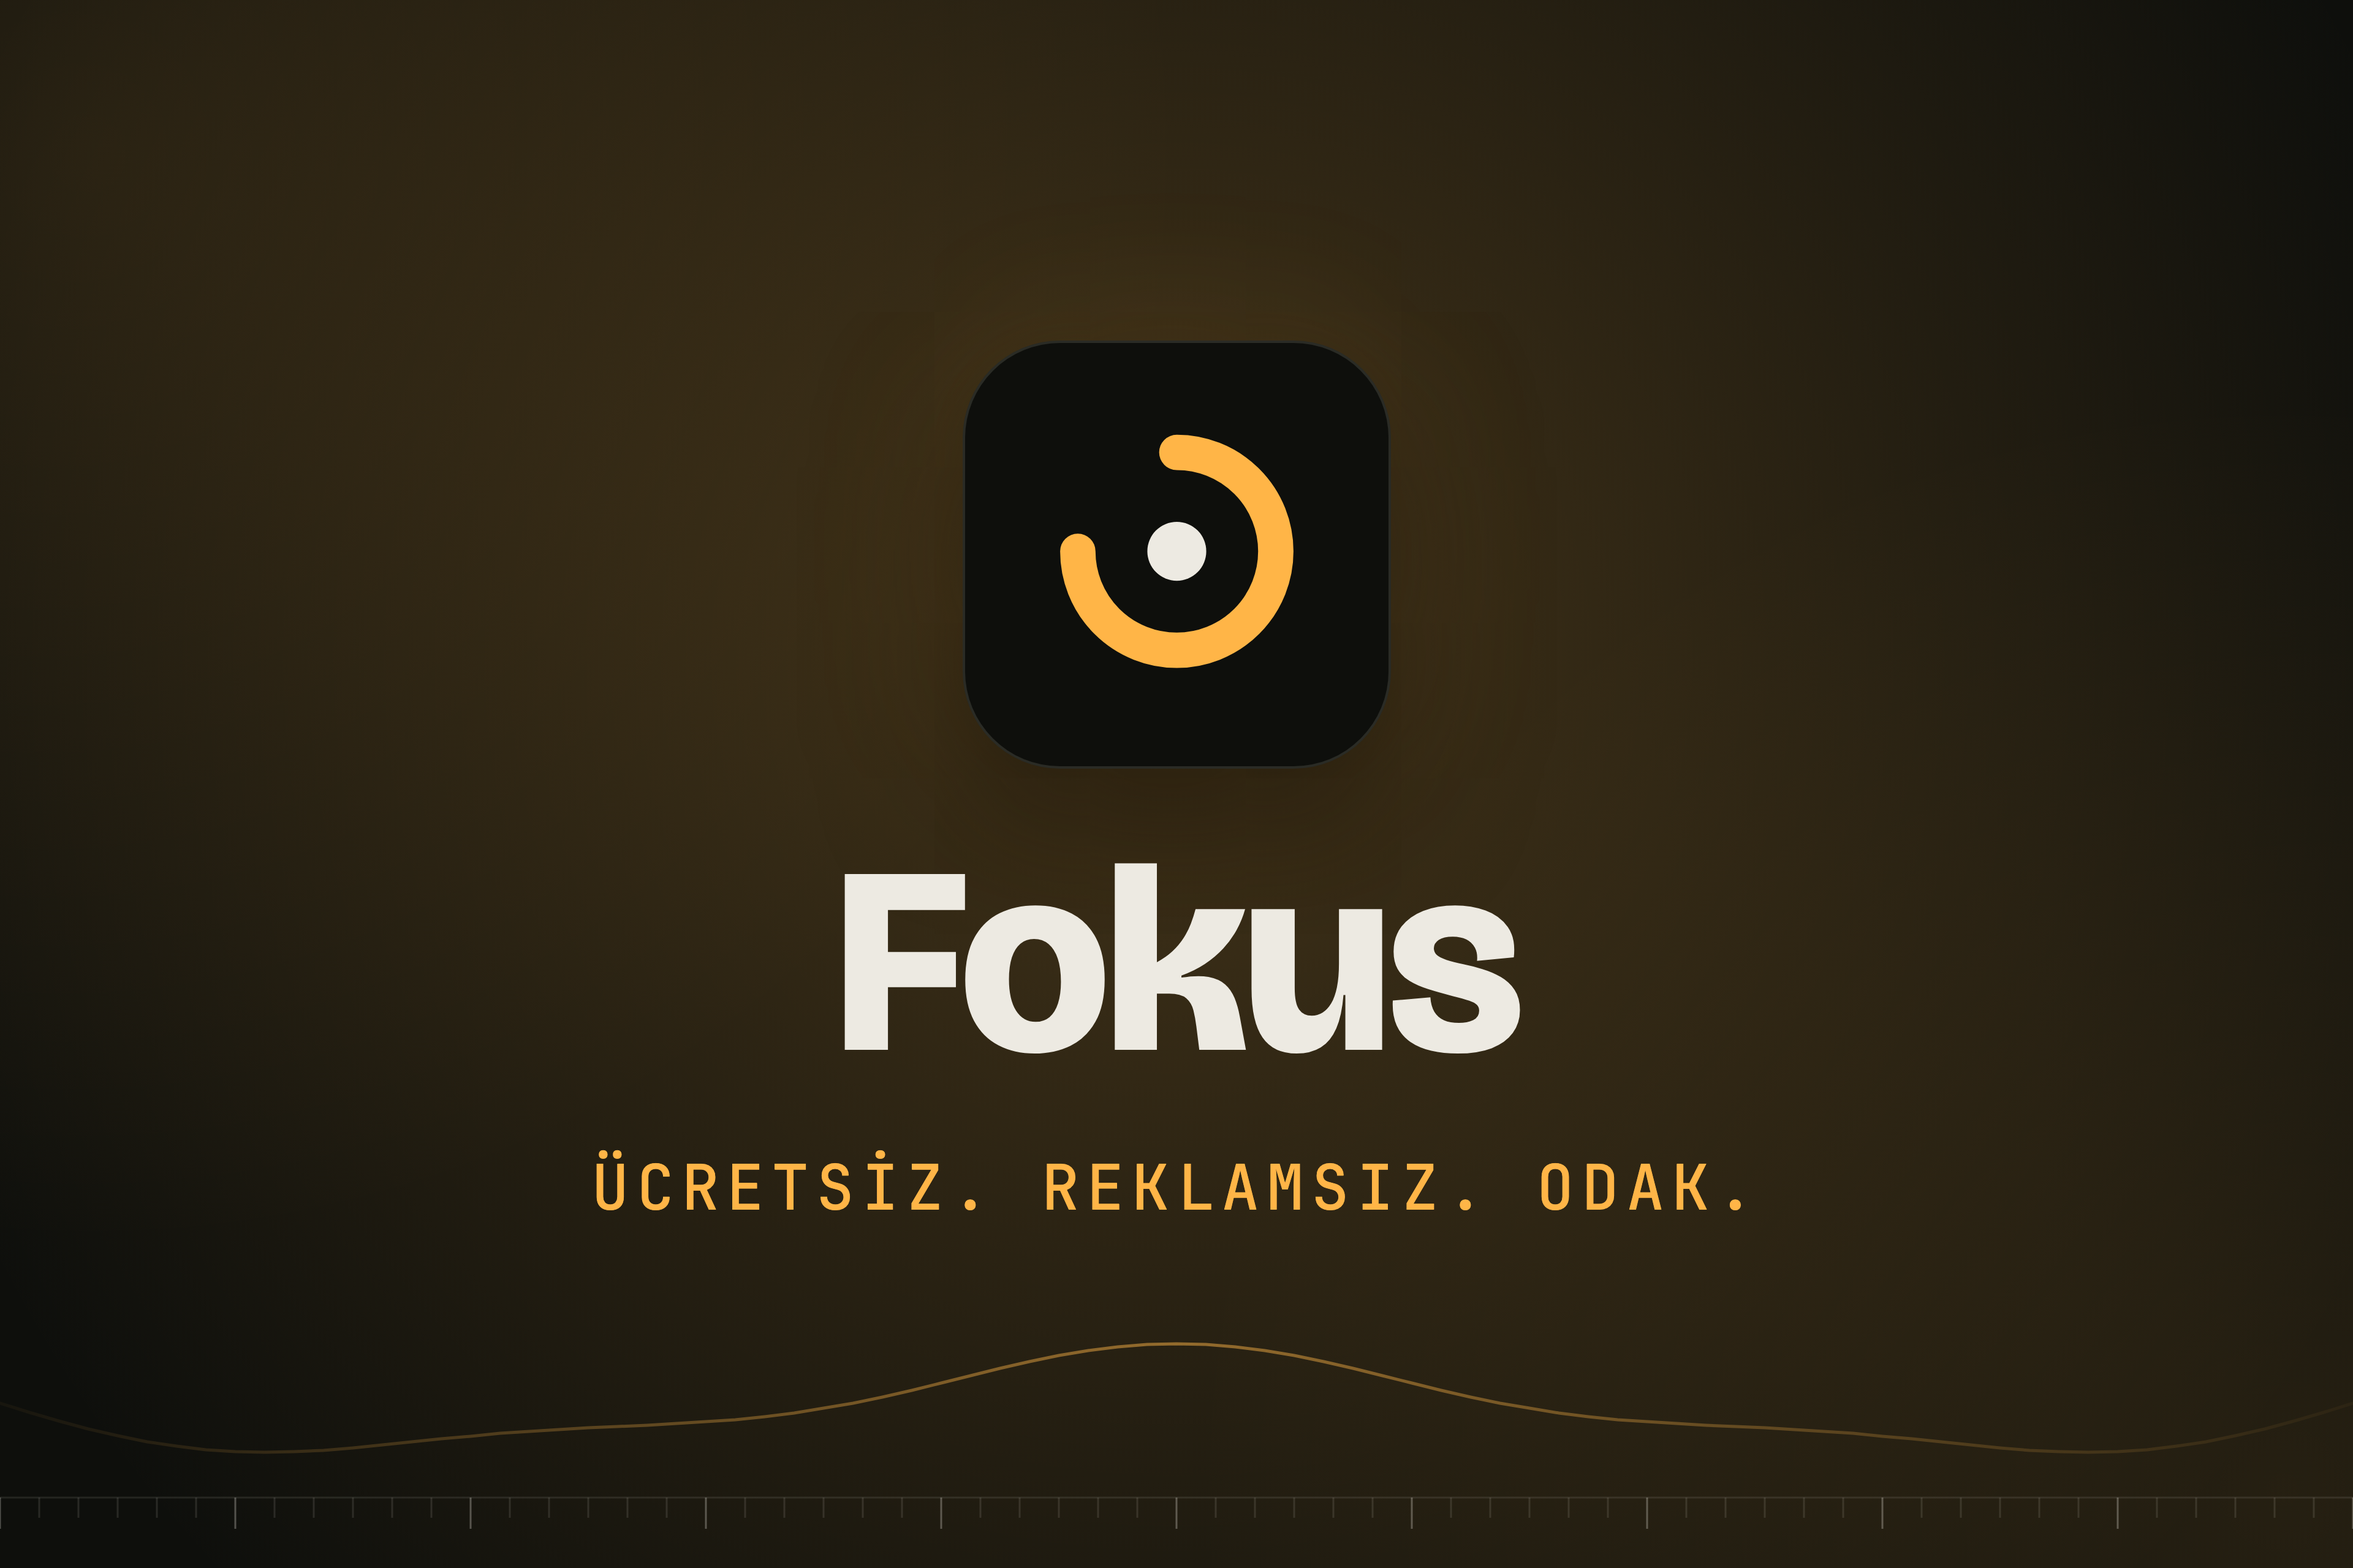
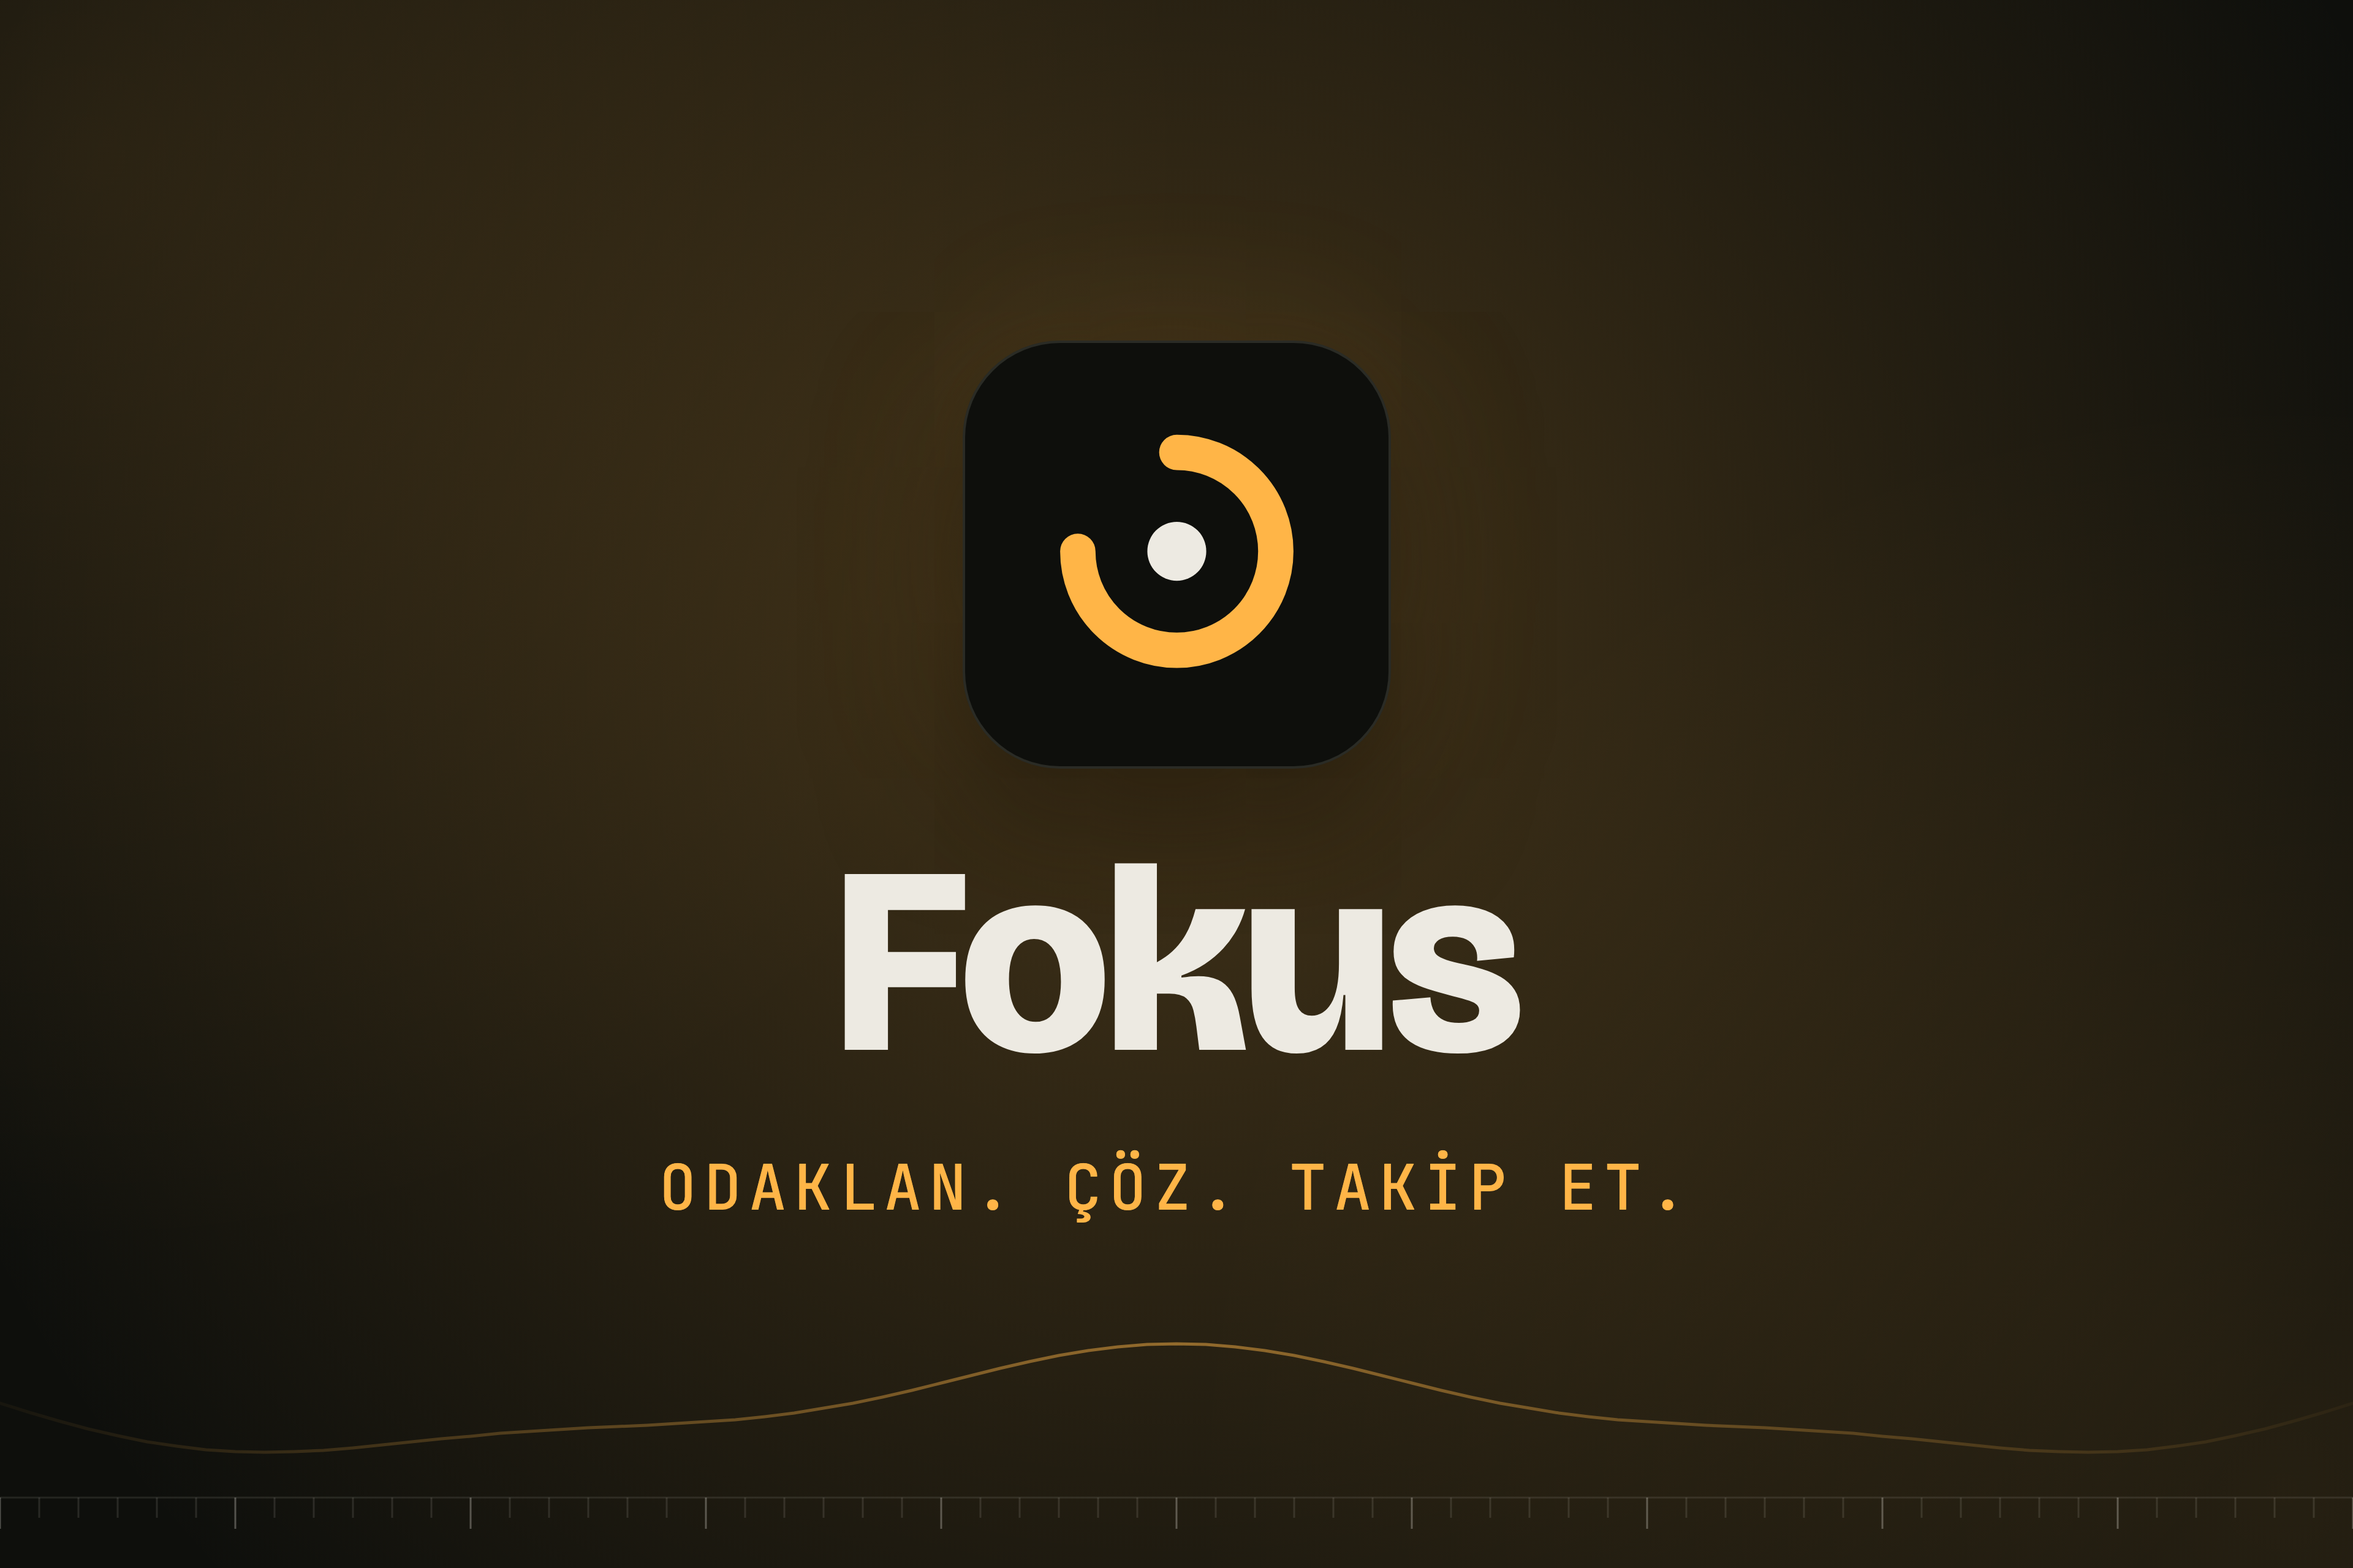
fix(appstore): fiyat göndermesi içeren görsel ve metinleri kaldır
App Review 2.3.7 / 2.3.14: arama sonucu görselleri ve son ekran görüntüsü paneli
"Ücretsiz. Reklamsız." diyordu. Satır "Odaklan. Çöz. Takip et.", panel
"Verin cihazında kalır." (slug verin-cihazinda) oldu; tanıtım metni ve açıklama
fiyat ifadelerinden arındırıldı, destek/gizlilik/pazarlama URL'leri
fokus.musabustun.dev'e taşındı, inceleme notu 4000 bayt altına indirildi.
check_metadata.py yaratıcı varlıklarda fiyat kelimelerini ve inceleme notu
baytlarını denetler.

Changed region(s): [[0.25, 0.7188, 0.7188, 0.7812]]

diff --git a/appstore/scripts/check_metadata.py b/appstore/scripts/check_metadata.py
@@ -3,13 +3,24 @@
 
 Kullanım: python3 appstore/scripts/check_metadata.py
 Çıkış kodu 0 = tüm sınırlar içinde; 1 = ihlal var.
-Sınırlar karakter (Unicode kod noktası) ya da bayt (UTF-8) cinsindendir; ASC anahtar kelimeleri bayt sayar.
+Sınırlar karakter (Unicode kod noktası) ya da bayt (UTF-8) cinsindendir; ASC anahtar kelimeleri ve inceleme notlarını bayt sayar.
+Ayrıca yaratıcı varlıklarda (ad, alt başlık, tanıtım metni, anahtar kelimeler, panel başlıkları, arama sonucu satırları,
+görsel dosya adları) fiyat/ücret göndermesi olmamalı (Guideline 2.3.7 / 2.3.14): "ücretsiz", "bedava", "premium", "indirim",
+"reklamsız" yasak. Açıklama (description.txt) bu denetimin dışındadır.
 """
+import json
+import re
 import sys
 import unicodedata
 from pathlib import Path
 
-DIR = Path(__file__).resolve().parent.parent / "metadata" / "tr"
+APPSTORE = Path(__file__).resolve().parent.parent
+DIR = APPSTORE / "metadata" / "tr"
+
+# Yaratıcı varlıklarda geçmemesi gereken kelimeler (küçük harfe çevrilmiş, Türkçe İ/I düzeltilmiş kök; ASCII yazımlar dahil).
+PRICE_WORDS = ("ücretsiz", "ucretsiz", "bedava", "premium", "indirim", "reklamsız", "reklamsiz", "free of charge")
+# Metni taranan metadata dosyaları.
+PRICE_FREE_FILES = ("name.txt", "name-alternatives.txt", "subtitle.txt", "promotional_text.txt", "keywords.txt")
 
 # dosya -> (sınır, birim, zorunlu)
 LIMITS = {
@@ -19,7 +30,7 @@ LIMITS = {
     "description.txt": (4000, "chars", True),
     "keywords.txt": (100, "bytes", True),
     "whats_new.txt": (4000, "chars", True),
-    "review_notes.txt": (4000, "chars", True),
+    "review_notes.txt": (4000, "bytes", True),  # ASC bayt sayar (Türkçe karakterler 2 bayt)
     "copyright.txt": (200, "chars", True),
     "support_url.txt": (2048, "chars", True),
     "marketing_url.txt": (2048, "chars", True),
@@ -29,6 +40,34 @@ LIMITS = {
 
 def read(name: str) -> str:
     return unicodedata.normalize("NFC", (DIR / name).read_text(encoding="utf-8")).rstrip("\n")
+
+
+def fold(text: str) -> str:
+    """Türkçe büyük/küçük harf: İ -> i, I -> ı, sonra küçült."""
+    return unicodedata.normalize("NFC", text).replace("İ", "i").replace("I", "ı").lower()
+
+
+def price_hits(label: str, text: str) -> list[str]:
+    folded = fold(text)
+    return [f"{label}: fiyat göndermesi '{w}'" for w in PRICE_WORDS if w in folded]
+
+
+def price_reference_errors() -> list[str]:
+    """Yaratıcı varlık metinlerinde ücret/fiyat kelimesi arar."""
+    errors: list[str] = []
+    for name in PRICE_FREE_FILES:
+        if (DIR / name).exists():
+            errors += price_hits(f"metadata/tr/{name}", read(name))
+    for src in sorted((APPSTORE / "screenshots" / "src").glob("*.json")):
+        for i, panel in enumerate(json.loads(src.read_text(encoding="utf-8"))):
+            for key in ("eyebrow", "title", "sub", "slug"):
+                errors += price_hits(f"screenshots/src/{src.name}[{i}].{key}", str(panel.get(key, "")))
+    header = APPSTORE / "scripts" / "build_header.py"
+    for i, line in enumerate(header.read_text(encoding="utf-8").splitlines(), 1):
+        errors += price_hits(f"scripts/build_header.py:{i}", line)
+    for image in sorted(APPSTORE.glob("*/**/*.png")):
+        errors += price_hits(f"{image.relative_to(APPSTORE)} (dosya adı)", image.name)
+    return errors
 
 
 def main() -> int:
@@ -69,6 +108,8 @@ def main() -> int:
     clash = [w for w in words if w.lower() in indexed]
     if clash:
         errors.append(f"keywords.txt: ad/alt başlıkla tekrar: {clash}")
+
+    errors += price_reference_errors()
 
     if errors:
         print("\nHATA:")

diff --git a/appstore/scripts/build_header.py b/appstore/scripts/build_header.py
@@ -25,8 +25,8 @@ CHROME = "/Applications/Google Chrome.app/Contents/MacOS/Google Chrome"
 TARGETS = [
     ("header/header-5244x2950.png", 5244, 2950, "Fokus", "YKS çalışma ve odak takibi"),
     ("header/header-3840x1646.png", 3840, 1646, "Fokus", "YKS çalışma ve odak takibi"),
-    ("search-results/search-5244x2950.png", 5244, 2950, "Fokus", "Ücretsiz. Reklamsız. Odak."),
-    ("search-results/search-3840x2560.png", 3840, 2560, "Fokus", "Ücretsiz. Reklamsız. Odak."),
+    ("search-results/search-5244x2950.png", 5244, 2950, "Fokus", "Odaklan. Çöz. Takip et."),
+    ("search-results/search-3840x2560.png", 3840, 2560, "Fokus", "Odaklan. Çöz. Takip et."),
 ]
 
 SYMBOL = '<path d="M128 44 A84 84 0 1 1 44 128" fill="none" stroke="#FFB547" stroke-width="30" stroke-linecap="round"/><circle cx="128" cy="128" r="25" fill="#EDEAE2"/>'

diff --git a/appstore/README.md b/appstore/README.md
@@ -7,16 +7,18 @@ Fokus 1.0.0'ın App Store Connect'e girilecek içerikleri. Yalnızca Türkçe (b
 | `metadata/tr/*.txt` | ASC alanlarına birebir kopyalanacak düz metinler (ad, alt başlık, tanıtım metni, açıklama, anahtar kelimeler, yenilikler, inceleme notları, URL'ler, kategori, telif) |
 | `metadata/tr/age_rating.md` | Yaş derecelendirmesi anketi için önerilen cevaplar (beklenen 4+) |
 | `privacy.md` | App Privacy ("Data Not Collected") gerekçesi + kod tarama bulguları |
-| `scripts/check_metadata.py` | Karakter/bayt sınırlarını doğrular: `python3 appstore/scripts/check_metadata.py` |
+| `scripts/check_metadata.py` | Karakter/bayt sınırlarını (inceleme notları bayt) ve yaratıcı varlıklarda fiyat göndermesi olmadığını doğrular: `python3 appstore/scripts/check_metadata.py` |
 | `screenshots/iphone-6.3/` | **ASC'de zorunlu** "Dynamic Island (orta ekran)" yuvası: 1206×2622, alfasız PNG (şablon yerel boyutunda render edilir, yeniden örnekleme yok) |
-| `screenshots/iphone-6.9/`, `screenshots/ipad-13/` | 6.9" (1320×2868, isteğe bağlı) ve iPad 13" (2064×2752) karuseli, alfasız PNG |
+| `screenshots/iphone-6.9/`, `screenshots/ipad-13/` | 6.9" (1320×2868, isteğe bağlı) ve iPad 13" (2064×2752) karuseli, alfasız PNG. Son panel: `iphone-6.9/08-verin-cihazinda.png`, `iphone-6.3/08-verin-cihazinda.png`, `ipad-13/06-verin-cihazinda.png` ("Verin cihazında kalır.") |
 | `screenshots/watch/` | Apple Watch yuvası: 422×514 (Ultra 3, 49 mm), alfasız PNG; simülatör ekran görüntüsü olduğu gibi (`01-baslat`, `02-sayac`) |
 | `screenshots/imessage-iphone/`, `screenshots/imessage-ipad/` | ASC "iMessage App" sekmesi: uzantının Mesajlar içinde ham ekran görüntüleri (iPhone 1206×2622 ×3, iPad 2064×2752 ×2; iPad'de küçük görünüm ayrı çekilmez, açılan çekmece zaten kartı gösterir) |
 | `screenshots/build_screenshots.py`, `screenshots/src/` | Mockup + karusel üretimi (HTML/CSS + headless Chrome; başlıklar `src/*.json`) |
 | `scripts/capture_screenshots.sh` | Ham ekran görüntüleri: `StoreScreenshotsUITests` (demo veri: `-FokusUITestMode -FokusDemoData`) |
-| `header/`, `search-results/` | ASC "Header" (5244×2950, 3840×1646) ve "Arama sonuçları" (5244×2950, 3840×2560) görselleri; `scripts/build_header.py` |
+| `header/`, `search-results/` | ASC "Header" (5244×2950, 3840×1646) ve "Arama sonuçları" (5244×2950, 3840×2560) görselleri; `scripts/build_header.py` (header: "YKS çalışma ve odak takibi", arama sonuçları: "Odaklan. Çöz. Takip et.") |
 
-Gizlilik ve destek sayfaları: [`docs/privacy.md`](../docs/privacy.md), [`docs/support.md`](../docs/support.md).
+**Yaratıcı varlıklarda fiyat göndermesi yok (Guideline 2.3.7 / 2.3.14).** Ekran görüntüleri, başlık/arama sonucu görselleri, önizlemeler, tanıtım metni, ad ve alt başlıkta "ücretsiz", "bedava", "premium", "indirim" (ve "reklamsız") gibi ifadeler geçmez; Apple "ücretsiz" ve "indirimli" demeyi de fiyat göndermesi sayar. Fiyat bilgisi gerekirse yalnızca açıklamada (`description.txt`) yer alabilir. `check_metadata.py` bu kelimeleri `name`, `subtitle`, `promotional_text`, `keywords`, `screenshots/src/*.json` ve `build_header.py` satırlarında arar.
+
+Gizlilik ve destek sayfaları (ASC URL'leri `metadata/tr/*_url.txt`: destek `https://fokus.musabustun.dev/destek/`, gizlilik `https://fokus.musabustun.dev/gizlilik/`, pazarlama `https://fokus.musabustun.dev/`): [`docs/privacy.md`](../docs/privacy.md), [`docs/support.md`](../docs/support.md).
 
 ## Sürüm yapılandırması
 
